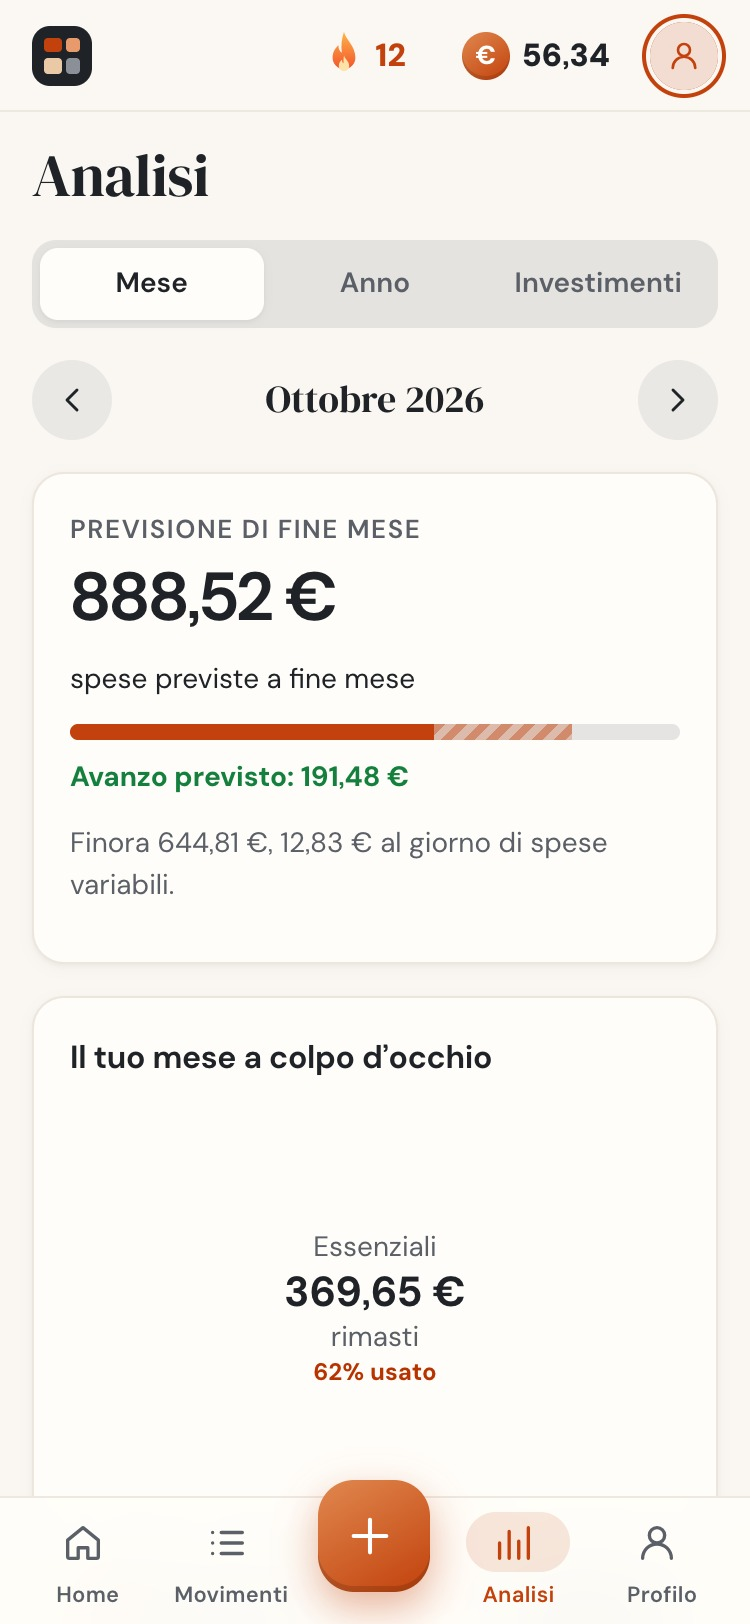
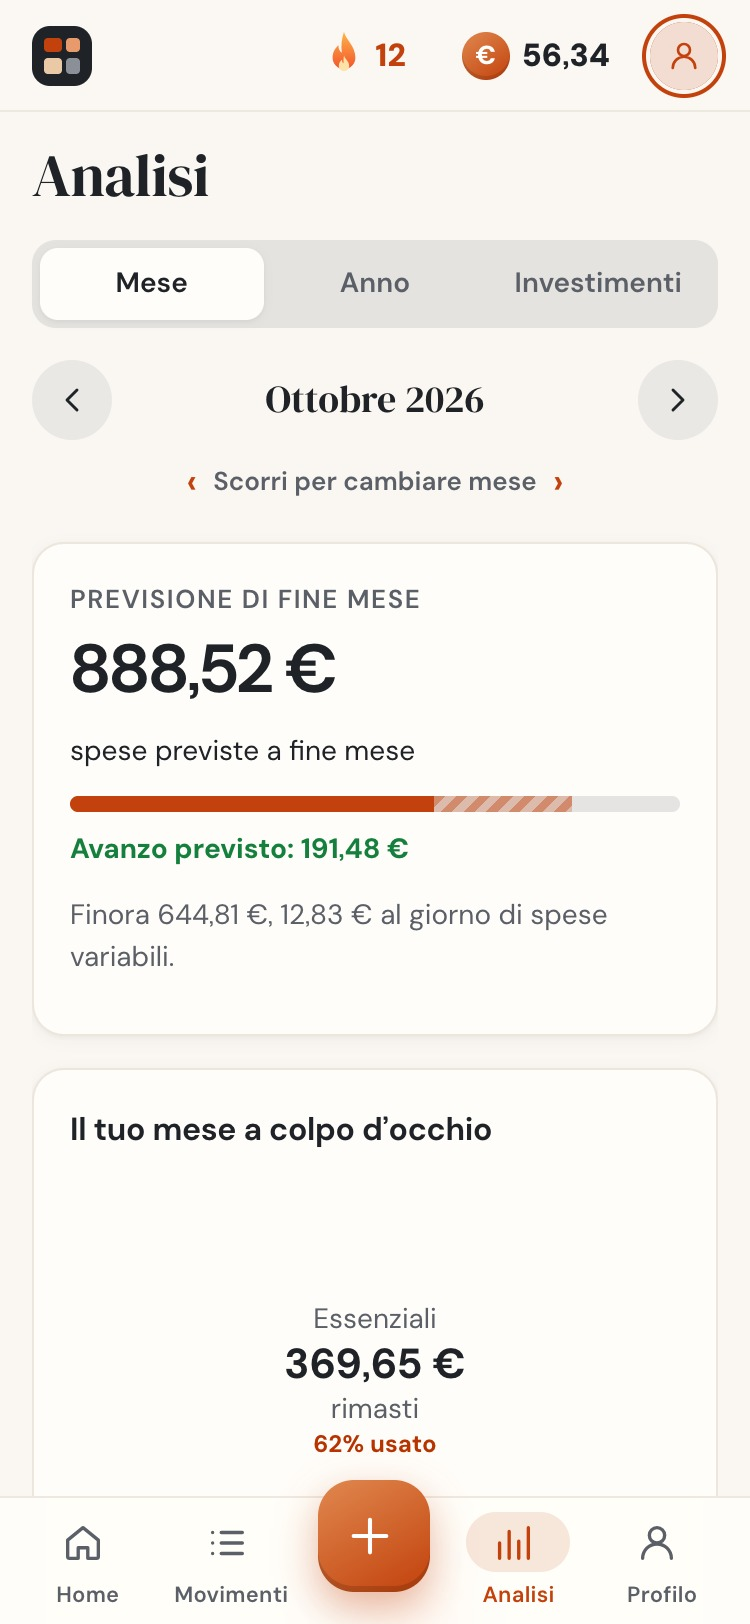
Scorrimento col dito tra i mesi (Movimenti, Analisi → Mese) e tra gli anni, con la pagina che segue il dito, entrata dal lato giusto, suggerimento al primo uso e frecce della tastiera

diff --git a/src/ui/kit/Swipe.tsx b/src/ui/kit/Swipe.tsx
@@ -1,0 +1,55 @@
+import { useEffect, useRef, useState, type ReactNode } from 'react'
+import { useI18n } from '../../i18n/core'
+import { tap } from './motion'
+
+const HINT = 'q.swipeHint'
+// zone che scorrono già di lato o dove si scrive: lì il gesto non cambia mese
+const SKIP = 'input, textarea, select, .filter-row, .goals, .chips, .hc-donut, .hc-bars, dialog, .bs-root'
+
+/**
+ * Scorrere col dito a destra/sinistra per andare al periodo prima/dopo (come i calendari e le app delle banche).
+ * La pagina segue il dito; al rilascio il contenuto nuovo entra dal lato giusto. Frecce ← → sul computer.
+ */
+export function Swipe({ id, onPrev, onNext, hint, children }: { id: string; onPrev: () => void; onNext: () => void; hint?: boolean; children: ReactNode }) {
+  const { t } = useI18n()
+  const start = useRef<{ x: number; y: number; on: boolean | null } | null>(null)
+  const [dx, setDx] = useState(0)
+  const [dir, setDir] = useState<'left' | 'right' | null>(null)
+  const [showHint, setShowHint] = useState(() => { try { return !!hint && !localStorage.getItem(HINT) } catch { return false } })
+  const go = (d: 'prev' | 'next') => {
+    tap(); setDir(d === 'next' ? 'left' : 'right')
+    if (showHint) { setShowHint(false); try { localStorage.setItem(HINT, '1') } catch { /* niente */ } }
+    if (d === 'next') onNext(); else onPrev()
+  }
+  useEffect(() => {
+    const key = (e: KeyboardEvent) => {
+      const el = e.target as HTMLElement | null
+      if (el?.closest?.('input, textarea, select, [contenteditable]') || document.body.classList.contains('sheet-open') || document.querySelector('dialog[open]')) return
+      if (e.key === 'ArrowLeft') go('prev'); else if (e.key === 'ArrowRight') go('next')
+    }
+    window.addEventListener('keydown', key)
+    return () => window.removeEventListener('keydown', key)
+  })
+  return (
+    <div className="swipe"
+      onTouchStart={e => { const tgt = e.target as HTMLElement; start.current = tgt.closest(SKIP) ? null : { x: e.touches[0].clientX, y: e.touches[0].clientY, on: null } }}
+      onTouchMove={e => {
+        const s = start.current; if (!s) return
+        const x = e.touches[0].clientX - s.x, y = e.touches[0].clientY - s.y
+        if (s.on == null && (Math.abs(x) > 10 || Math.abs(y) > 10)) s.on = Math.abs(x) > Math.abs(y) * 1.4   // decide una volta: orizzontale o scroll
+        if (s.on) setDx(x * 0.6)
+      }}
+      onTouchEnd={() => {
+        const s = start.current; start.current = null
+        if (s?.on && Math.abs(dx) > 50) go(dx < 0 ? 'next' : 'prev')
+        setDx(0)
+      }}>
+      {showHint && <p className="swipe-hint"><span>‹</span>{t('swipe.hint')}<span>›</span></p>}
+      <div key={id} className={`swipe-page${dir ? ` from-${dir}` : ''}`}
+           style={dx ? { transform: `translateX(${dx}px)`, opacity: 1 - Math.min(.35, Math.abs(dx) / 600), transition: 'none' } : undefined}
+           onAnimationEnd={() => setDir(null)}>
+        {children}
+      </div>
+    </div>
+  )
+}

diff --git a/src/ui/screens/AnalysisScreen.tsx b/src/ui/screens/AnalysisScreen.tsx
@@ -1,4 +1,5 @@
-import type { ClassifiedTx, MonthResult, YearMonth } from '../../engine'
+import { nextMonth, prevMonth, type ClassifiedTx, type MonthResult, type YearMonth } from '../../engine'
+import { Swipe } from '../kit/Swipe'
 import { useI18n } from '../../i18n/core'
 import type { AppData } from '../../store/state'
 import { tap } from '../kit/motion'
@@ -31,12 +32,15 @@ export function AnalysisScreen({ view, onView, data, result, current, homeResult
       <div key={view} className="view-in">
         {view === 'month' && <>
           <MonthNav ym={current} onChange={onMonth} />
+          <Swipe id={`${current.year}-${current.month}`} onPrev={() => onMonth(prevMonth(current))} onNext={() => onMonth(nextMonth(current))} hint>
           {isNow && <section className="card widget"><div className="w-head"><h3 className="h-plain">{t('w.forecast')}</h3></div>
             <ProGate feature="reports" compact><ForecastReport r={result} settings={data.settings} today={today} /></ProGate></section>}
           <MonthView r={result} settings={data.settings} onOpen={onOpen} today={today} />
+          </Swipe>
         </>}
         {view === 'year' && <>
           <YearNav year={year} onChange={onYear} />
+          <Swipe id={String(year)} onPrev={() => onYear(year - 1)} onNext={() => onYear(year + 1)}>
           {year === homeResult.ym.year && <ProGate feature="reports"><div className="widgets report-grid">
             <section className="card widget"><div className="w-head"><h3 className="h-plain">{t('w.trend')}</h3></div>
               <TrendReport r={homeResult} txs={data.transactions} settings={data.settings} today={today} /></section>
@@ -45,6 +49,7 @@ export function AnalysisScreen({ view, onView, data, result, current, homeResult
           </div></ProGate>}
           <YearView year={year} transactions={data.transactions} settings={data.settings} today={today} onYear={onYear}
                     onOpenMonth={m => { onMonth(m); onView('month'); window.scrollTo(0, 0) }} />
+          </Swipe>
         </>}
         {view === 'investments' && <ProGate feature="investments">
           <InvestmentsView settings={data.settings} transactions={data.transactions} today={today} year={year} onYear={onYear} /></ProGate>}

diff --git a/src/ui/screens/TransactionsScreen.tsx b/src/ui/screens/TransactionsScreen.tsx
@@ -1,5 +1,5 @@
 import { useMemo, useState } from 'react'
-import { activeFilters, daysBetween, filterTransactions, monthsBetween, periodStart, signedTotal, transactionsInMonths, undated, EMPTY_FILTER,
+import { activeFilters, daysBetween, nextMonth, prevMonth, filterTransactions, monthsBetween, periodStart, signedTotal, transactionsInMonths, undated, EMPTY_FILTER,
   type ClassifiedTx, type MonthResult, type Period, type TxFilter, type TxType, type YearMonth } from '../../engine'
 import { useI18n } from '../../i18n/core'
 import type { Dict } from '../../i18n/en'
@@ -9,6 +9,7 @@ import { Icon } from '../Icon'
 import { tap } from '../kit/motion'
 import { Sheet } from '../kit/Sheet'
 import { MonthNav } from '../MonthNav'
+import { Swipe } from '../kit/Swipe'
 import { BUCKET_COLORS, bucketName, categoryName } from '../names'
 import { TransactionsView } from '../TransactionsView'
 import { TxRow } from '../TxRow'
@@ -72,7 +73,9 @@ export function TransactionsScreen({ data, current, result, today, onMonth, onOp
 
       {!searching ? <>
         <MonthNav ym={current} onChange={onMonth} />
-        <TransactionsView r={result} settings={s} undated={undated(data.transactions)} onOpen={onOpen} />
+        <Swipe id={`${current.year}-${current.month}`} onPrev={() => onMonth(prevMonth(current))} onNext={() => onMonth(nextMonth(current))} hint>
+          <TransactionsView r={result} settings={s} undated={undated(data.transactions)} onOpen={onOpen} />
+        </Swipe>
       </> : <>
         {eff === 'month' && <MonthNav ym={current} onChange={onMonth} />}
         <div className="results-head">

diff --git a/src/app-shell.css b/src/app-shell.css
@@ -374,3 +374,16 @@ body.sheet-open { overflow: hidden; }
 .chip-dot { width: 10px; height: 10px; border-radius: 3px; display: inline-block; margin-right: 6px; }
 .amount-range { display: grid; grid-template-columns: 1fr auto 1fr; gap: var(--s3); align-items: end; }
 .amount-range label { display: grid; gap: 4px; font-size: 13px; color: var(--muted); font-weight: 600; }
+
+/* ---------- scorrimento tra i mesi ---------- */
+.swipe { touch-action: pan-y; overflow-x: clip; }
+.swipe-page { transition: transform .25s var(--ease), opacity .25s; will-change: transform; }
+.swipe-page.from-left { animation: from-left .32s var(--ease) both; }
+.swipe-page.from-right { animation: from-right .32s var(--ease) both; }
+@keyframes from-left { from { opacity: 0; transform: translateX(40px); } to { opacity: 1; transform: none; } }
+@keyframes from-right { from { opacity: 0; transform: translateX(-40px); } to { opacity: 1; transform: none; } }
+.swipe-hint { display: flex; justify-content: center; align-items: center; gap: 8px; margin: -4px 0 var(--s3); font-size: 13px; font-weight: 600; color: var(--muted); }
+.swipe-hint span { color: var(--accent); font-size: 18px; animation: nudge 1.4s ease-in-out infinite; }
+.swipe-hint span:last-child { animation-direction: reverse; }
+@keyframes nudge { 0%, 100% { transform: translateX(0); } 50% { transform: translateX(-4px); } }
+@media (prefers-reduced-motion: reduce) { .swipe-page.from-left, .swipe-page.from-right, .swipe-hint span { animation: none; } }

diff --git a/src/i18n/fr.ts b/src/i18n/fr.ts
@@ -788,6 +788,7 @@ const fr: Dict = {
   'srch.min': "De",
   'srch.max': "À",
   'srch.more': "Il y a d’autres mouvements : affinez la recherche pour les voir.",
+  'swipe.hint': "Faites glisser pour changer de mois",
   'm.1': 'Janvier', 'm.2': 'Février', 'm.3': 'Mars', 'm.4': 'Avril', 'm.5': 'Mai', 'm.6': 'Juin',
   'm.7': 'Juillet', 'm.8': 'Août', 'm.9': 'Septembre', 'm.10': 'Octobre', 'm.11': 'Novembre', 'm.12': 'Décembre',
 }

diff --git a/src/i18n/es.ts b/src/i18n/es.ts
@@ -788,6 +788,7 @@ const es: Dict = {
   'srch.min': "Desde",
   'srch.max': "Hasta",
   'srch.more': "Hay más movimientos: acota la búsqueda para verlos.",
+  'swipe.hint': "Desliza para cambiar de mes",
   'm.1': 'Enero', 'm.2': 'Febrero', 'm.3': 'Marzo', 'm.4': 'Abril', 'm.5': 'Mayo', 'm.6': 'Junio',
   'm.7': 'Julio', 'm.8': 'Agosto', 'm.9': 'Septiembre', 'm.10': 'Octubre', 'm.11': 'Noviembre', 'm.12': 'Diciembre',
 }

diff --git a/src/i18n/it.ts b/src/i18n/it.ts
@@ -788,6 +788,7 @@ const it: Dict = {
   'srch.min': "Da",
   'srch.max': "A",
   'srch.more': "Ci sono altri movimenti: restringi la ricerca per vederli.",
+  'swipe.hint': "Scorri per cambiare mese",
   'm.1': 'Gennaio', 'm.2': 'Febbraio', 'm.3': 'Marzo', 'm.4': 'Aprile', 'm.5': 'Maggio', 'm.6': 'Giugno',
   'm.7': 'Luglio', 'm.8': 'Agosto', 'm.9': 'Settembre', 'm.10': 'Ottobre', 'm.11': 'Novembre', 'm.12': 'Dicembre',
 }

diff --git a/src/i18n/en.ts b/src/i18n/en.ts
@@ -788,6 +788,7 @@ const en = {
   'srch.min': "From",
   'srch.max': "To",
   'srch.more': "There are more transactions: narrow the search to see them.",
+  'swipe.hint': "Swipe to change month",
   'm.1': 'January', 'm.2': 'February', 'm.3': 'March', 'm.4': 'April', 'm.5': 'May', 'm.6': 'June',
   'm.7': 'July', 'm.8': 'August', 'm.9': 'September', 'm.10': 'October', 'm.11': 'November', 'm.12': 'December',
 }

diff --git a/src/engine/dates.ts b/src/engine/dates.ts
@@ -60,3 +60,7 @@ export function todayIso(): string {
   const d = new Date()
   return `${d.getFullYear()}-${pad(d.getMonth() + 1)}-${pad(d.getDate())}`
 }
+
+export function nextMonth(ym: YearMonth): YearMonth {
+  return ym.month === 12 ? { year: ym.year + 1, month: 1 } : { year: ym.year, month: ym.month + 1 }
+}

diff --git a/docs/DESIGN.md b/docs/DESIGN.md
@@ -194,7 +194,7 @@ Dimensioni: 16 nei pulsanti, 18–20 nelle righe, 22–23 nella barra, 28 nel +.
 Tutte disattivate con "Riduci movimento" del sistema. Vibrazione leggera al tocco su Android.
 
 ## 7. Prossimi passi consigliati
-1. Scorrimento orizzontale tra i mesi in Movimenti e Analisi (swipe).
+1. ~~Scorrimento orizzontale tra i mesi~~ fatto (ottobre 2026): Movimenti, Analisi → Mese e Anno; frecce ← → sul computer.
 2. ~~Ricerca e filtri nei movimenti~~ fatto (ottobre 2026).
 3. ~~Obiettivi di risparmio~~ fatto (ottobre 2026).
 4. Modalità scura rifinita sul riquadro del giorno e sulle medaglie.
